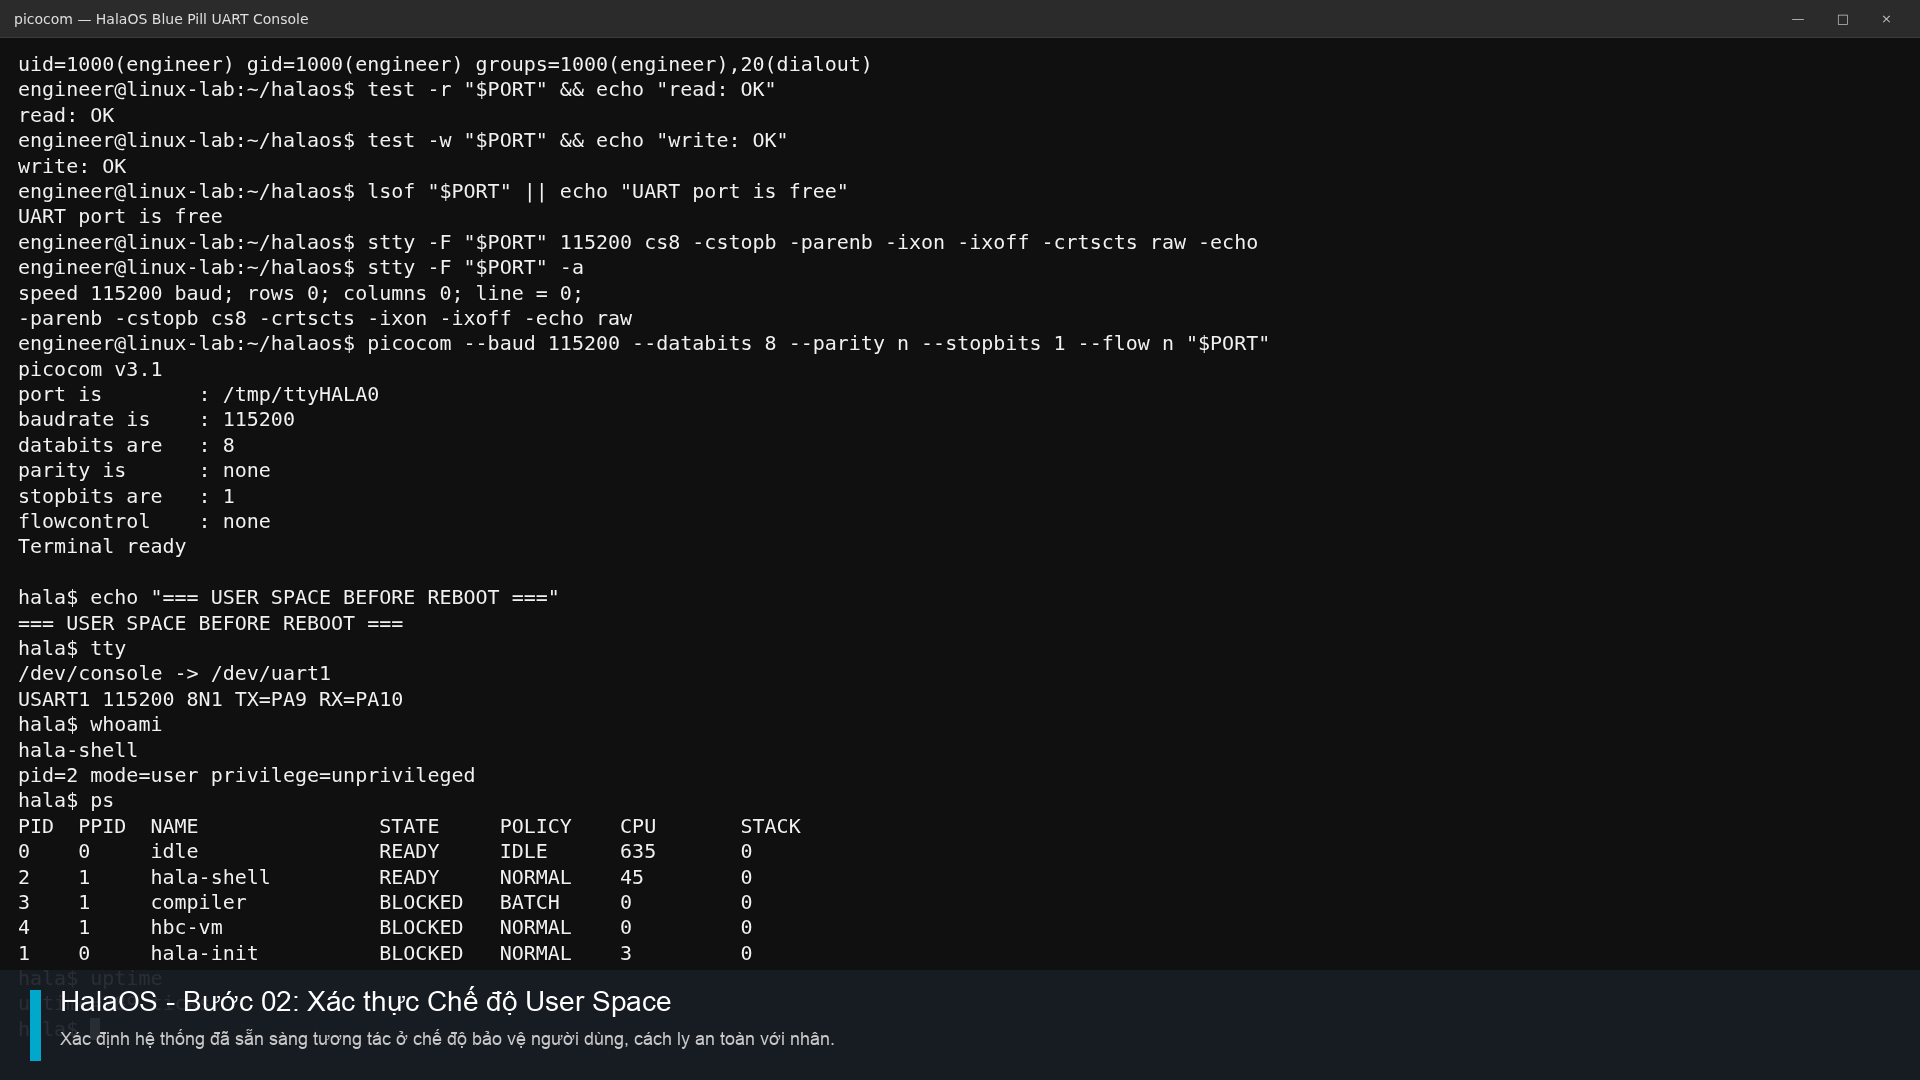
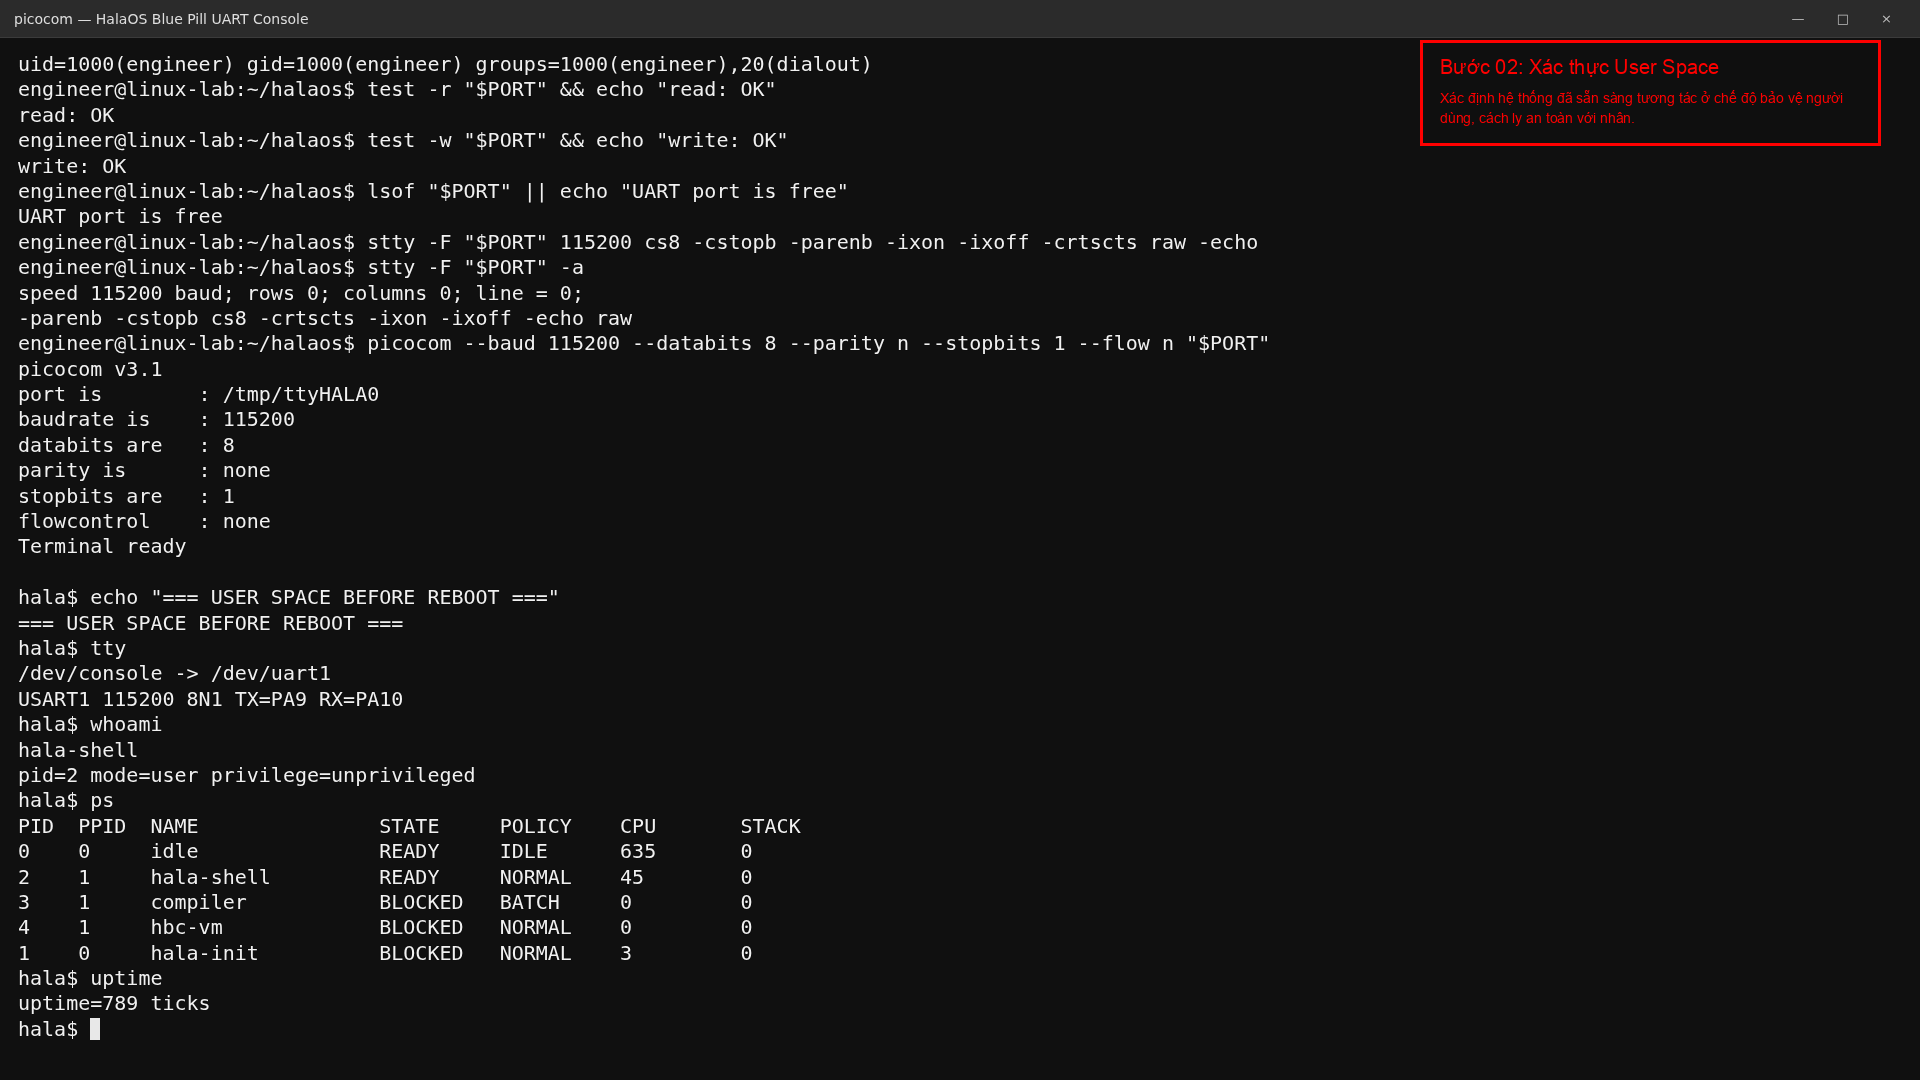
Reposition screenshots labels to top-right HUD box with red border and red text

Changed region(s): [[0.0, 0.8861, 0.4375, 0.9778], [0.75, 0.0306, 0.9062, 0.1222]]

diff --git a/tools/draw_labels.py b/tools/draw_labels.py
@@ -7,67 +7,67 @@ from PIL import Image, ImageDraw, ImageFont
 # Danh sách hình ảnh và mô tả bằng tiếng Việt
 SCREENSHOTS_DATA = {
     "01-linux-uart-connected.png": {
-        "title": "HalaOS - Bước 01: Kết nối UART",
+        "title": "Bước 01: Kết nối UART",
         "desc": "Thiết lập và kết nối thành công cổng serial UART trên máy host bằng picocom với cấu hình 115200 8N1."
     },
     "02-userspace-proof.png": {
-        "title": "HalaOS - Bước 02: Xác thực Chế độ User Space",
+        "title": "Bước 02: Xác thực User Space",
         "desc": "Xác định hệ thống đã sẵn sàng tương tác ở chế độ bảo vệ người dùng, cách ly an toàn với nhân."
     },
     "03-complete-boot.png": {
-        "title": "HalaOS - Bước 03: Chu kỳ Khởi động Hoàn tất",
+        "title": "Bước 03: Khởi động Hoàn tất",
         "desc": "Ghi nhận toàn bộ chuỗi khởi động từ bootloader, giải nén cấu hình Device Tree (DTB) đến khi chạy nhân."
     },
     "04-boot-review.png": {
-        "title": "HalaOS - Bước 04: Truy vấn Boot Log",
+        "title": "Bước 04: Truy vấn Boot Log",
         "desc": "Sử dụng các lệnh dmesg hoặc bootlog để duyệt lịch sử khởi động và trạng thái các driver phần cứng."
     },
     "05-vfs-dtb.png": {
-        "title": "HalaOS - Bước 05: Cây Thiết bị & VFS",
+        "title": "Bước 05: Cây Thiết bị & VFS",
         "desc": "Duyệt cây thiết bị phần cứng Device Tree (DTB) và truy cập các phân vùng ảo /dev, /proc, /tmp."
     },
     "06-process-memory.png": {
-        "title": "HalaOS - Bước 06: Tiến trình & Bộ nhớ RAM/Stack",
+        "title": "Bước 06: Tiến trình & Bộ nhớ",
         "desc": "Truy vấn các bảng tiến trình (ps, top) và biểu đồ ngăn xếp (stack, mem) để quản lý tài nguyên tĩnh."
     },
     "07-hello-compiler.png": {
-        "title": "HalaOS - Bước 07: Trình biên dịch tương tác Hala-C",
+        "title": "Bước 07: Trình biên dịch Hala-C",
         "desc": "Viết và biên dịch mã nguồn C trực tiếp tại chỗ sang bytecode máy ảo (VM) trên bộ nhớ Flash."
     },
     "08-process-control.png": {
-        "title": "HalaOS - Bước 08: Kiểm soát Tiến trình",
+        "title": "Bước 08: Kiểm soát Tiến trình",
         "desc": "Vận hành các chức năng kiểm soát vòng đời ứng dụng máy ảo bao gồm run, stop, continue và kill."
     },
     "09-thread-app.png": {
-        "title": "HalaOS - Bước 09: Ứng dụng Đa luồng song song",
+        "title": "Bước 09: Ứng dụng Đa luồng",
         "desc": "Chạy đa luồng mẫu với stack riêng biệt và ghi nhận kết quả xuất ra UART xen kẽ nhau."
     },
     "10-ipc.png": {
-        "title": "HalaOS - Bước 10: Đồng bộ & Giao tiếp IPC",
+        "title": "Bước 10: Đồng bộ & IPC",
         "desc": "Thử nghiệm truyền dữ liệu Producer/Consumer qua Message Queue và bảo vệ tài nguyên bằng Mutex."
     },
     "11-pipe-posix.png": {
-        "title": "HalaOS - Bước 11: Mô phỏng Pipe & POSIX API",
+        "title": "Bước 11: Pipe & POSIX API",
         "desc": "Chạy ứng dụng giáo dục sử dụng đường ống Pipe và giao tiếp file descriptor tiêu chuẩn POSIX."
     },
     "12-scheduler.png": {
-        "title": "HalaOS - Bước 12: Đánh giá Bộ lập lịch",
+        "title": "Bước 12: Đánh giá Bộ lập lịch",
         "desc": "Kiểm tra phản hồi của CPU dưới các giải thuật lập lịch: Round-Robin, Fair, Weighted, Deadline, FIFO."
     },
     "13-fault.png": {
-        "title": "HalaOS - Bước 13: Chứa lỗi và Bảo vệ Nhân",
+        "title": "Bước 13: Bảo vệ Nhân (Fault)",
         "desc": "Khi xảy ra lỗi nghiêm trọng (HardFault) ở User Space, kernel ghi lại lỗi và tiếp tục hoạt động an toàn."
     },
     "14-persistence.png": {
-        "title": "HalaOS - Bước 14: Lưu trữ Ứng dụng qua Reset",
+        "title": "Bước 14: Lưu trữ ứng dụng",
         "desc": "Ứng dụng máy ảo lưu trên Flash slot A/B tồn tại nguyên vẹn sau khi thực hiện reset cứng/mềm hệ thống."
     },
     "15-final-report.png": {
-        "title": "HalaOS - Bước 15: Báo cáo Nghiệm thu",
+        "title": "Bước 15: Báo cáo Nghiệm thu",
         "desc": "Lệnh acceptance-report sinh tự động báo cáo thống kê hoạt động của hệ điều hành ngay lúc chạy."
     },
     "16-session-closed.png": {
-        "title": "HalaOS - Bước 16: Đóng Kết nối và Kết thúc",
+        "title": "Bước 16: Đóng Kết nối UART",
         "desc": "Thực hiện ngắt kết nối an toàn picocom và quay trở lại màn hình shell mặc định của máy host."
     }
 }
@@ -75,15 +75,40 @@ SCREENSHOTS_DATA = {
 FONT_PATH = "/System/Library/Fonts/Supplemental/Arial.ttf"
 IMAGES_DIR = "docs/images/evidence"
 
+def wrap_text(text, font, max_width):
+    """Tự động xuống dòng cho văn bản dựa trên kích thước font và chiều rộng tối đa."""
+    words = text.split()
+    lines = []
+    current_line = []
+    
+    for word in words:
+        test_line = ' '.join(current_line + [word])
+        # Lấy kích thước của dòng test
+        bbox = font.getbbox(test_line)
+        width = bbox[2] - bbox[0]
+        if width <= max_width:
+            current_line.append(word)
+        else:
+            if current_line:
+                lines.append(' '.join(current_line))
+                current_line = [word]
+            else:
+                lines.append(word)
+                current_line = []
+                
+    if current_line:
+        lines.append(' '.join(current_line))
+    return lines
+
 def process_images():
-    print("Bắt đầu chèn thông tin mô tả vào các hình ảnh minh chứng...")
+    print("Bắt đầu chèn thông tin mô tả vào góc trên bên phải các hình ảnh...")
     
     # Kiểm tra font
     if not os.path.exists(FONT_PATH):
         raise FileNotFoundError(f"Không tìm thấy font tại {FONT_PATH}")
         
-    title_font = ImageFont.truetype(FONT_PATH, 28)
-    desc_font = ImageFont.truetype(FONT_PATH, 18)
+    title_font = ImageFont.truetype(FONT_PATH, 20)
+    desc_font = ImageFont.truetype(FONT_PATH, 14)
     
     for filename, info in SCREENSHOTS_DATA.items():
         img_path = os.path.join(IMAGES_DIR, filename)
@@ -99,31 +124,43 @@ def process_images():
         overlay = Image.new("RGBA", img.size, (0, 0, 0, 0))
         draw = ImageDraw.Draw(overlay)
         
-        # Vẽ banner nền tối màu ở góc dưới (cao 110px)
-        banner_h = 110
-        banner_y = height - banner_h
-        # Màu nền RGBA: (24, 28, 36, 235) - Xám xanh tối, trong suốt nhẹ
+        # Cấu hình kích thước và vị trí hộp thông tin ở góc phải trên
+        box_width = 460
+        max_text_width = box_width - 40 # Padding 20px mỗi bên
+        
+        # Xuống dòng văn bản mô tả để vừa với chiều rộng hộp
+        wrapped_desc_lines = wrap_text(info["desc"], desc_font, max_text_width)
+        
+        # Tính toán chiều cao động cho hộp dựa trên số dòng mô tả
+        # Tiêu đề (25px) + Khoảng cách (10px) + Các dòng mô tả (mỗi dòng 20px) + Padding dọc (30px)
+        box_height = 25 + 10 + (len(wrapped_desc_lines) * 20) + 30
+        
+        # Tọa độ hộp góc phải trên
+        x2 = width - 40
+        x1 = x2 - box_width
+        y1 = 40
+        y2 = y1 + box_height
+        
+        # Vẽ nền hộp: Đen mờ RGBA(15, 15, 15, 220) để đảm bảo chữ đỏ luôn nổi bật dễ đọc
         draw.rectangle(
-            [(0, banner_y), (width, height)],
-            fill=(24, 28, 36, 235)
+            [(x1, y1), (x2, y2)],
+            fill=(15, 15, 15, 220),
+            outline=(255, 0, 0, 255), # Viền đỏ
+            width=3 # Độ dày viền 3px
         )
         
-        # Vẽ thanh accent dọc màu xanh Cyan ở bên trái
-        draw.rectangle(
-            [(30, banner_y + 20), (40, height - 20)],
-            fill=(0, 168, 204, 255)
-        )
+        # Viết Tiêu đề và Mô tả bằng chữ đỏ RGB(255, 0, 0)
+        draw.text((x1 + 20, y1 + 15), info["title"], font=title_font, fill=(255, 0, 0, 255))
         
-        # Vẽ text Tiêu đề và Mô tả
-        draw.text((60, banner_y + 15), info["title"], font=title_font, fill=(255, 255, 255, 255))
-        draw.text((60, banner_y + 58), info["desc"], font=desc_font, fill=(200, 200, 200, 255))
-        
+        for i, line in enumerate(wrapped_desc_lines):
+            draw.text((x1 + 20, y1 + 50 + i * 20), line, font=desc_font, fill=(255, 0, 0, 255))
+            
         # Trộn ảnh gốc với overlay
         final_img = Image.alpha_composite(img, overlay).convert("RGB")
         final_img.save(img_path, "PNG")
         print(f"Đã cập nhật: {img_path}")
         
-    print("Hoàn tất chèn nội dung vào toàn bộ hình ảnh!")
+    print("Hoàn tất chèn nội dung vào góc phải trên của toàn bộ hình ảnh!")
 
 if __name__ == "__main__":
     process_images()
